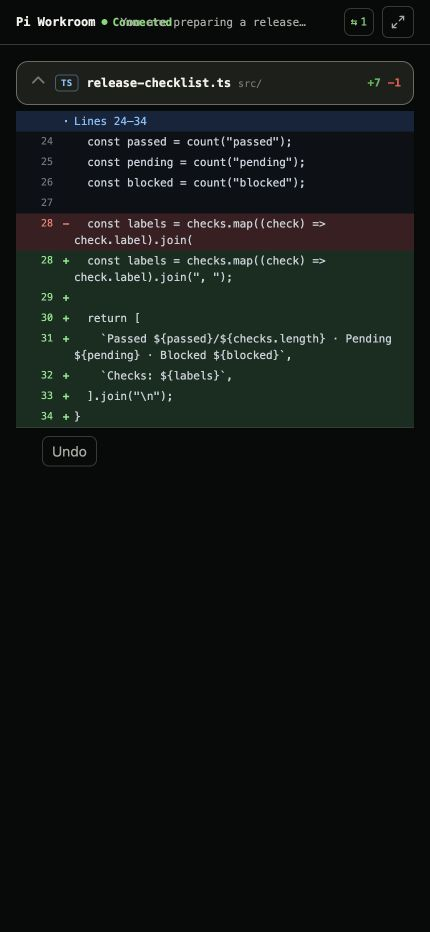
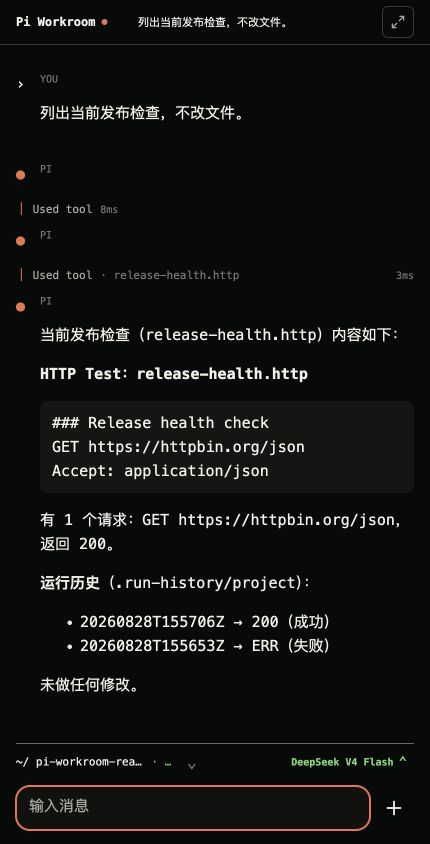
docs: show mobile command workflow

diff --git a/docs/readme-assets.md b/docs/readme-assets.md
@@ -9,7 +9,7 @@ Use real Pi Workroom screens only. Do not use mockups, synthetic UI, API keys, p
 | `docs/images/hero.png` | Below the README intro | 1224×768 PNG | Desktop session, tool timeline, verified change, and review entry point |
 | `docs/images/changes.png` | Feature grid | 1224×768 PNG | Unified Diff and review state |
 | `docs/images/http-workbench.png` | Feature grid | 1224×768 PNG | A `.http` request with a successful JSON response and run history |
-| `docs/images/companion-mobile.png` | Phone Companion section | 430×932 PNG | A phone-sized Companion reviewing the same file Diff |
+| `docs/images/companion-mobile.png` | Phone Companion section | 430×844 PNG | A phone-sized Companion sending a command, using local HTTP tools, and returning a 200 result |
 
 ## Optional next assets
 

diff --git a/README.md b/README.md
@@ -29,9 +29,9 @@ Pi Workroom is the desktop layer around Pi. It does not replace Pi or create ano
 
 ### Continue from your phone
 
-Use the optional Companion on the same Wi-Fi to follow a session and review its changes from a phone.
+Use the optional Companion on the same Wi-Fi to follow a session, send commands, and review tool activity or file changes from a phone.
 
-<img src="docs/images/companion-mobile.png" alt="Pi Workroom Companion reviewing a file diff on a phone" width="320" />
+<img src="docs/images/companion-mobile.png" alt="Pi Workroom Companion sending a mobile command and reviewing its HTTP result" width="320" />
 
 ## Install
 
